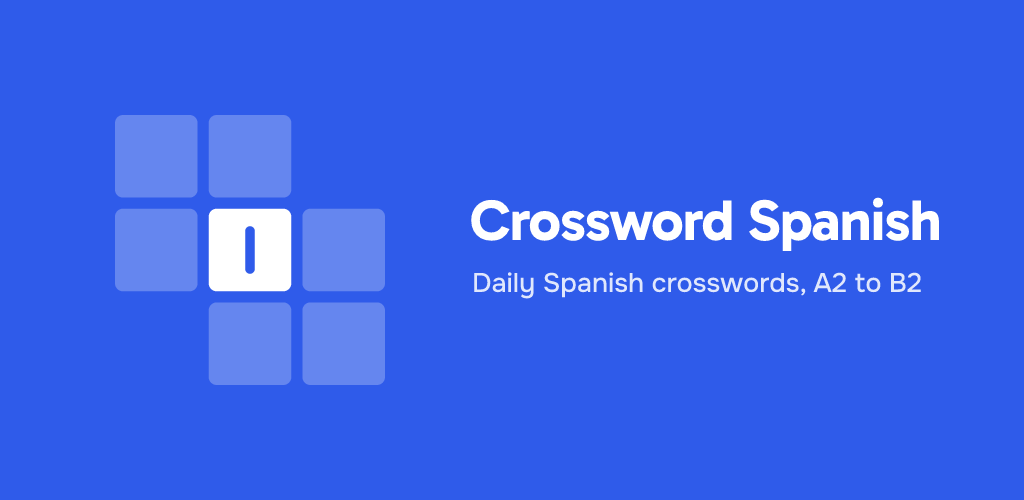
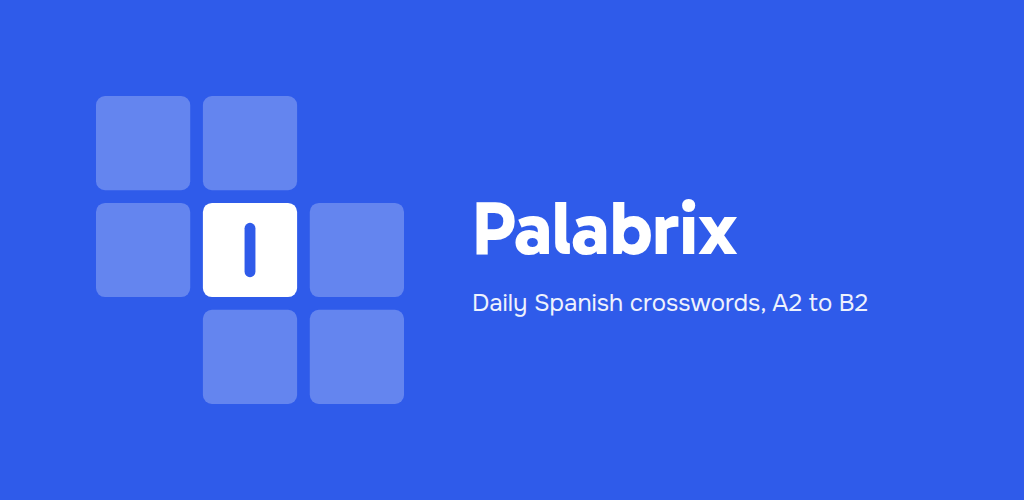
Rename app to Palabrix (#23) (#24)
Display name, in-app fallback, store listing and Play feature graphic.
Store listings use "Palabrix: Spanish Crosswords" for search.

Changed region(s): [[0.0938, 0.18, 0.4062, 0.81], [0.4375, 0.39, 0.9375, 0.51], [0.4375, 0.54, 0.9062, 0.63]]

diff --git a/src/ui/app-info.ts b/src/ui/app-info.ts
@@ -1,4 +1,4 @@
 import Constants from 'expo-constants';
 
-export const APP_NAME: string = Constants.expoConfig?.name ?? 'Crossword Spanish';
+export const APP_NAME: string = Constants.expoConfig?.name ?? 'Palabrix';
 export const CONTACT_EMAIL = 'ihorklymchuk.dev@gmail.com';

diff --git a/app.config.ts b/app.config.ts
@@ -1,6 +1,6 @@
 import type { ExpoConfig } from 'expo/config';
 
-const DISPLAY_NAME = 'Crossword Spanish';
+const DISPLAY_NAME = 'Palabrix';
 
 const config: ExpoConfig = {
   name: DISPLAY_NAME,

diff --git a/store/listing.md b/store/listing.md
@@ -1,6 +1,7 @@
 # Store listing
 
-Working name: **Crossword Spanish** (placeholder; the owner may rename. The name lives in `DISPLAY_NAME` in `app.config.ts`).
+App name: **Palabrix** (`DISPLAY_NAME` in `app.config.ts`, shown under the home-screen icon).
+Store listings use the longer **Palabrix: Spanish Crosswords** so the app shows up in searches for "spanish crossword".
 Bundle id / package: `com.ihorklymchuk.crosswords`. Version: 1.0.0.
 
 ## Shared
@@ -14,7 +15,7 @@ Bundle id / package: `com.ihorklymchuk.crosswords`. Version: 1.0.0.
 
 ## App Store (iOS)
 
-**Name** (30 max): Crossword Spanish
+**Name** (30 max): Palabrix: Spanish Crosswords
 
 **Subtitle** (30 max): Daily Spanish mini crosswords
 
@@ -69,7 +70,7 @@ All answers None / No:
 
 ## Google Play
 
-**App name** (30 max): Crossword Spanish
+**App name** (30 max): Palabrix: Spanish Crosswords
 
 **Short description** (80 max):
 Daily mini crosswords to learn Spanish. Offline, no ads, no account.
@@ -114,11 +115,10 @@ Category: Reference, News or Educational (or Game > Puzzle if the questionnaire 
 ## Owner checklist
 
 1. Create an Expo account (expo.dev), then `npx eas-cli login`.
-2. `npx eas-cli init`. It cannot write to a dynamic `app.config.ts`, so tell Claude (or add by hand) `owner` and `extra.eas.projectId` in `app.config.ts`.
+2. `npx eas-cli init` (done: `owner` and `extra.eas.projectId` are set in `app.config.ts`).
 3. iOS: create the app record in App Store Connect (bundle id `com.ihorklymchuk.crosswords`, name, primary language English (US), SKU), then
    `npx eas-cli build -p ios --profile production` and `npx eas-cli submit -p ios --profile production` (it prompts for the ascAppId and Apple credentials).
    Fill in the listing, privacy label, age rating, screenshots (`store/screenshots/`), and press Submit for Review.
 4. Android: create the app in Play Console, fill the listing, data safety and content rating.
    `npx eas-cli build -p android --profile production` produces an AAB. Upload it manually to the first Closed testing release (the first upload must be manual; later ones can use `eas submit` with a service account key).
 5. New personal Play developer accounts need a closed test with at least 12 testers opted in for 14 continuous days before applying for production access.
-6. Optional: rename the app (`DISPLAY_NAME` in `app.config.ts` and the listing name above).

diff --git a/README.md b/README.md
@@ -1,4 +1,4 @@
-# Language Crosswords
+# Palabrix
 
 An offline Spanish mini-crossword app built with Expo (iOS, Android, web). No backend; progress is stored on the device.
 

diff --git a/AGENTS.md b/AGENTS.md
@@ -1,4 +1,4 @@
-# Language Crosswords
+# Palabrix
 
 Offline Spanish mini-crossword app (Expo, iOS/Android/web, no backend).
 
